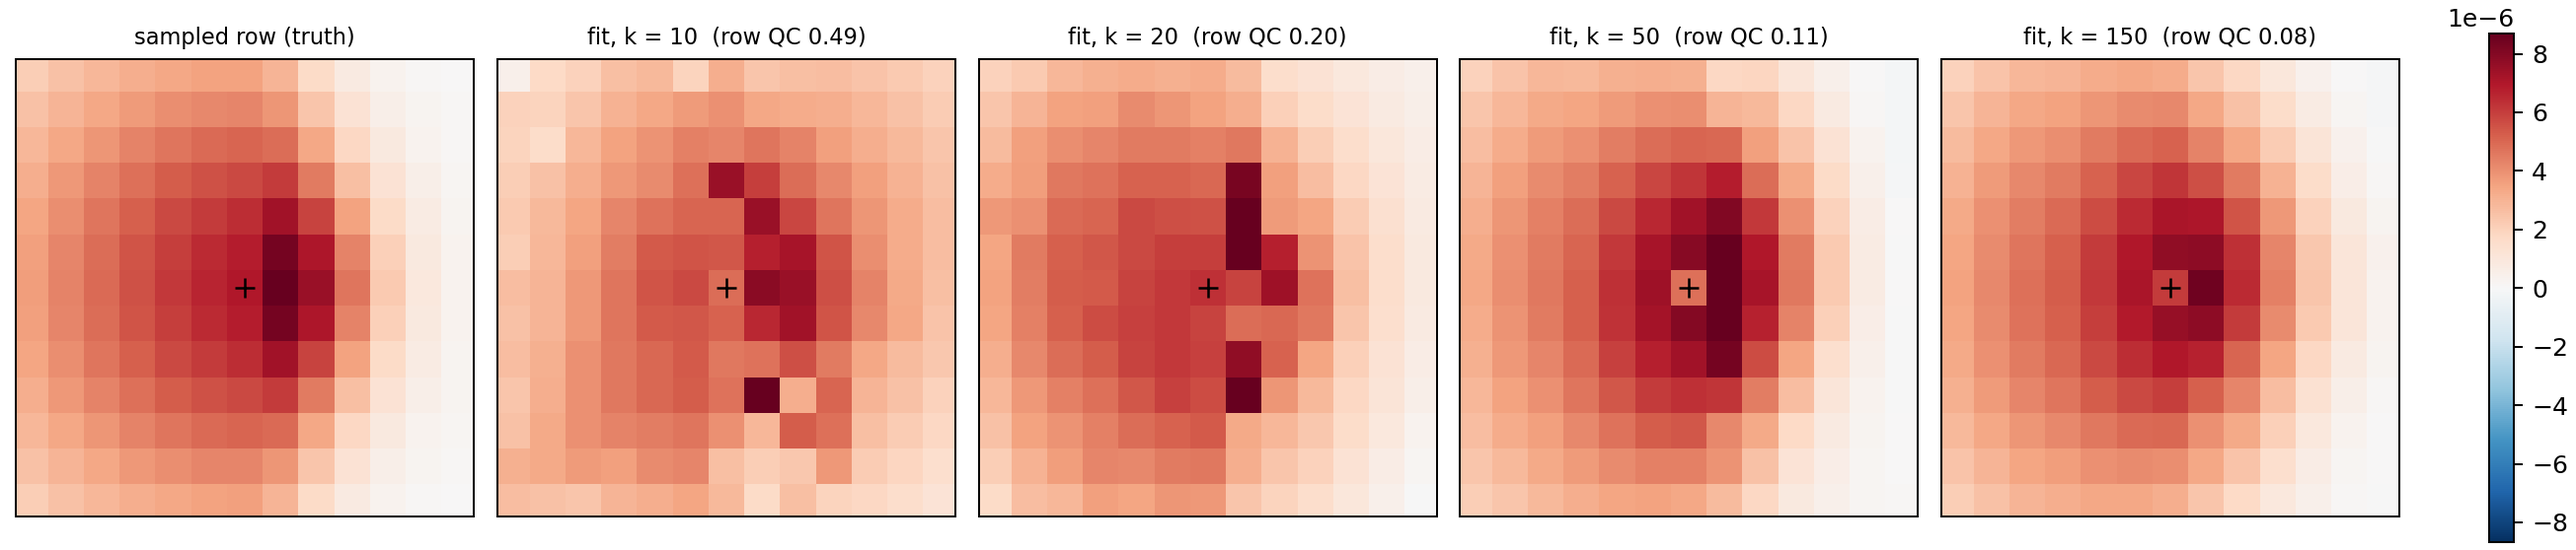
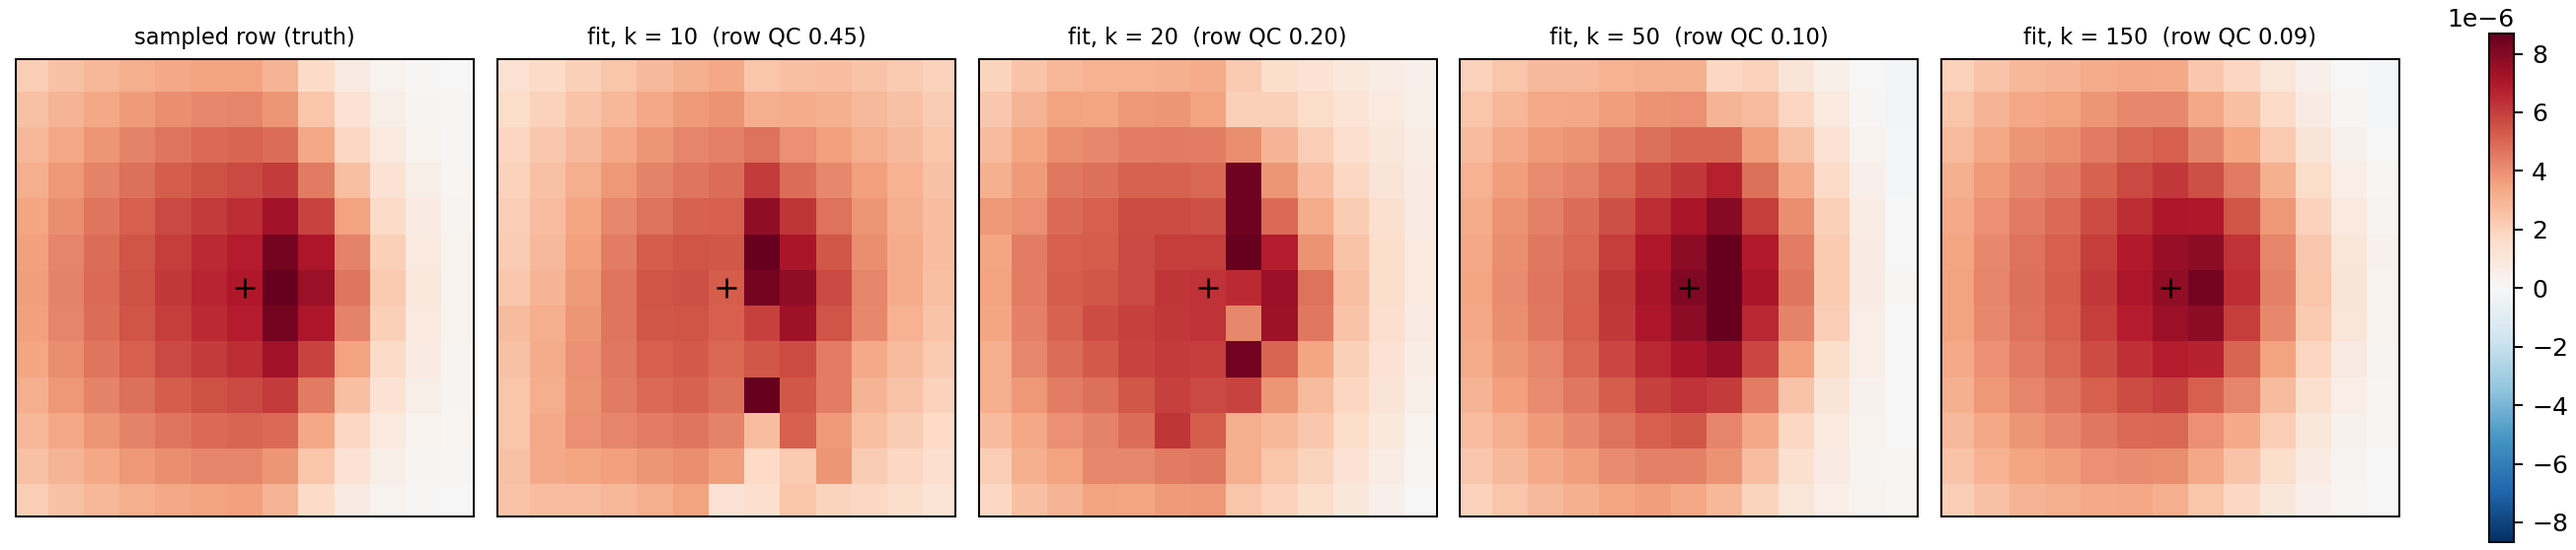
Heat mini-paper: spike off for this problem (maintainer decision)
The smooth LG expansion is the main lgpsf fit; the additive spike is a
trick for undermeshed regimes, and this problem's narrowest PSFs are
still about a cell wide. Measured basis (recorded in the plan's decision
list): the spike coefficient is a free L2 basis vector, weakly
determined at small probe budgets -- negative on ~half the rows at
k = 10, still a third at k = 50, digging anchor-cell holes that
row-level QC barely notices. Without it the diagonals are healthy
(0/0/0/1 negative across the ladder vs 122 at k = 10 before), aggregate
QC ties or improves, and only the pocket gives anything up (0.012 vs
0.006 at k = 50 -- the floor the spike would buy back, worth one honest
sentence in the paper).

All four fits regenerated, figure and QC table refreshed; the figure row
re-verified median-representative and monotone under the new fits.

Claude-Session: https://claude.ai/code/session_01R17UG1VLcucQNKZCZRFP8A

diff --git a/docs/heat-pipeline/make_figures.py b/docs/heat-pipeline/make_figures.py
@@ -183,6 +183,10 @@ def fitted_operator(problem, k):
     V, HV = probes(problem, k)
     config = lgpsf.OperatorFitConfig()
     config.tau_window = 3.0
+    # The smooth LG expansion is the fit. The additive spike term is a
+    # trick for undermeshed regimes; this problem's narrowest PSFs are
+    # still about a cell wide, so it stays off.
+    config.spike = False
     config.row.mode_policy = lgpsf.ShellLadder([0, 1, 2, 3, 4])
     config.row.target_score = None
     fit = lgpsf.fit_operator(problem["x"], problem["mass"], problem["mass"],

diff --git a/docs/heat-pipeline/snippets/qc_table.tex b/docs/heat-pipeline/snippets/qc_table.tex
@@ -2,9 +2,9 @@
 \hline
 $k$ & slab & interface & background & pocket & overall \\
 \hline
-10 & 0.440 & 0.388 & 0.163 & 0.019 & 0.303 \\
-20 & 0.163 & 0.195 & 0.074 & 0.012 & 0.132 \\
-50 & 0.086 & 0.104 & 0.039 & 0.006 & 0.072 \\
-150 & 0.071 & 0.082 & 0.027 & 0.005 & 0.057 \\
+10 & 0.366 & 0.340 & 0.149 & 0.050 & 0.264 \\
+20 & 0.153 & 0.190 & 0.075 & 0.016 & 0.126 \\
+50 & 0.085 & 0.100 & 0.038 & 0.012 & 0.070 \\
+150 & 0.070 & 0.082 & 0.028 & 0.012 & 0.057 \\
 \hline
 \end{tabular}

diff --git a/docs/heat-pipeline/snippets/fit.tex b/docs/heat-pipeline/snippets/fit.tex
@@ -6,6 +6,10 @@ import lgpsf
 V, HV = probes(problem, k)
 config = lgpsf.OperatorFitConfig()
 config.tau_window = 3.0
+# The smooth LG expansion is the fit. The additive spike term is a
+# trick for undermeshed regimes; this problem's narrowest PSFs are
+# still about a cell wide, so it stays off.
+config.spike = False
 config.row.mode_policy = lgpsf.ShellLadder([0, 1, 2, 3, 4])
 config.row.target_score = None
 fit = lgpsf.fit_operator(problem["x"], problem["mass"], problem["mass"],

diff --git a/dev/HANDOFF.md b/dev/HANDOFF.md
@@ -24,7 +24,7 @@ narrative and open items only; when a thread closes, its record moves to
 | Fitting speed | **~4.5× faster than 0.1.0** at unchanged accuracy — see below |
 | Pencil corrections layer | **COMPLETE — all 12 slices landed** (implementation 2026-07-31/08-01; PIG validation 2026-08-03: flip counts 1438 Euclidean vs 14 pencil, free deflation 35→23 vs recorded 34→22, value pass 6/12/18 matching the offline prediction exactly, true-pair fold 6/13/19 vs in-ymir 5/12/18) (`Symmetrize::Weighted` 2026-07-31; boundary, `ModeBlock`, `ShiftedOperator` + GLR Woodbury, pencil Lanczos + `make_pd`, zones + both solve modes, both deflations, rebuild_at, and the Cholesky backend 2026-08-01) — full implementation plan in [`pencil-corrections-plan.md`](pencil-corrections-plan.md); the layer is operator-blind (matvec-only) in `include/lgpsf/corrections/`, a sibling of the fit stack |
 | Corrections examples | **landed 2026-08-03** — `heat_inversion.py` (shared PDE problem) + 4 lessons in pipeline order; writing them caught two library defects (see design-notes 2026-08-03) |
-| Heat mini-paper | **slice 2 of 6 landed** (`docs/heat-pipeline/make_figures.py` under the `tttt` env with `build-py39/bindings` on PYTHONPATH; grid 32, noise 1.5%, seed 20260803). Slice 1: problem/psfs figures + snippet extraction. Slice 2: fit ladder k = 10/20/50/150 (weighted-symmetrized, cached in `cache/`, probe pairs saved for the corrections slices), item-5 figure `psf_fit.png` (slab-side interface row chosen median-representative; ~3% of interface rows regress at k = 20 — QC catches them), held-out QC table by region (`snippets/qc_table.tex`; overall median 0.30→0.06). Also fixed slice-1 interface spot labels (at grid 32 the band cells are x = 0.391/0.422). Plan — [`heat-mini-paper-plan.md`](heat-mini-paper-plan.md) has every decision (title "LGPSF Heat Inverse Problem Tutorial"; item 8 = three-figure spectrum progression, Fig 8b one-sided singular values for all three curves; cost table = probes vs preconditioned condition number). Next: slice 3 — the build (make_pd + value_pass + cache) and the a-sweep, items 6–7 (L-curve, reconstructions) |
+| Heat mini-paper | **slice 2 of 6 landed** (`docs/heat-pipeline/make_figures.py` under the `tttt` env with `build-py39/bindings` on PYTHONPATH; grid 32, noise 1.5%, seed 20260803). Slice 1: problem/psfs figures + snippet extraction. Slice 2: fit ladder k = 10/20/50/150 (weighted-symmetrized, **spike OFF** — Nick's call, see the plan's decision list: smooth expansion is the main fit, spike is the undermeshed-regime trick and was fitting negative on half the rows at small k; cached in `cache/`, probe pairs saved for the corrections slices), item-5 figure `psf_fit.png` (slab-side interface row chosen median-representative; ~5% of interface rows regress at k = 20 — QC catches them), held-out QC table by region (`snippets/qc_table.tex`; overall median 0.26→0.06, pocket floors at 0.012 from k = 50 — the spike would buy that back). Also fixed slice-1 interface spot labels (at grid 32 the band cells are x = 0.391/0.422). Plan — [`heat-mini-paper-plan.md`](heat-mini-paper-plan.md) has every decision (title "LGPSF Heat Inverse Problem Tutorial"; item 8 = three-figure spectrum progression, Fig 8b one-sided singular values for all three curves; cost table = probes vs preconditioned condition number). Next: slice 3 — the build (make_pd + value_pass + cache) and the a-sweep, items 6–7 (L-curve, reconstructions) |
 | **Not done** | **CI, cibuildwheel, M6 release infra** |
 
 ## Fitting defaults changed, 2026-07-28

diff --git a/dev/heat-mini-paper-plan.md b/dev/heat-mini-paper-plan.md
@@ -152,3 +152,18 @@ build (compiler-flag reproducibility, as with docgen).
   one-sided preconditioned operator for ALL THREE curves**, with the
   caption note about symmetric similarity. No questions remain — the
   plan is fully specified; implementation starts at slice 1.
+
+- **Spike OFF for this problem (decided 2026-08-03, after slice 2).**
+  The smooth LG expansion is the main lgpsf fit; the additive spike is
+  a trick for undermeshed regimes, and this problem's narrowest PSFs
+  (pocket, sigma ≈ 0.9 cells at grid 32) are still resolvable. Measured
+  basis for the call: the spike coefficient is a free L2 basis vector,
+  weakly determined at small probe budgets — negative on ~half the rows
+  at k = 10 (122 assembled diagonals negative), still negative on ~1/3
+  of rows at k = 50, digging anchor-cell holes that row-level L2 QC
+  barely notices; aggregate held-out QC ties or improves without it
+  (overall 0.26 vs 0.30 at k = 10, 0.070 vs 0.072 at k = 50; only the
+  pocket prefers the spike, 0.006 vs 0.012 at k = 50). Possible library
+  follow-up, not this paper's work: an optional nonnegativity constraint
+  on the spike, or anchoring the diagonal to the Hutchinson estimate
+  `E[z_i (Hz)_i]` the probes already contain.
